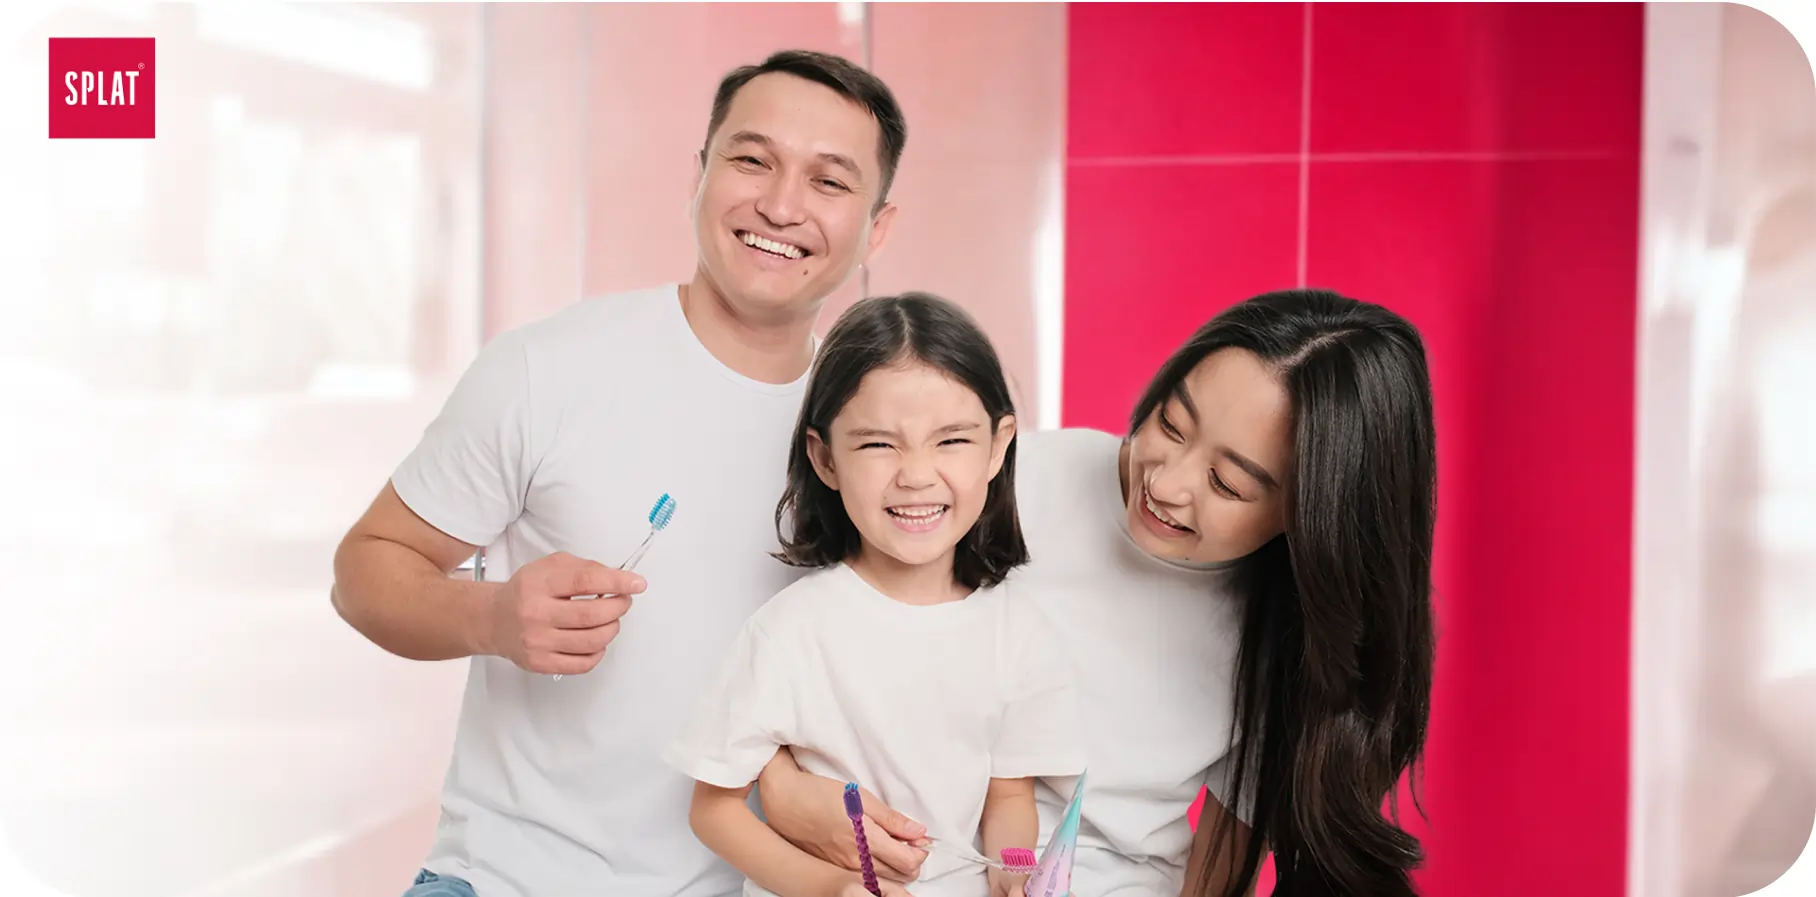
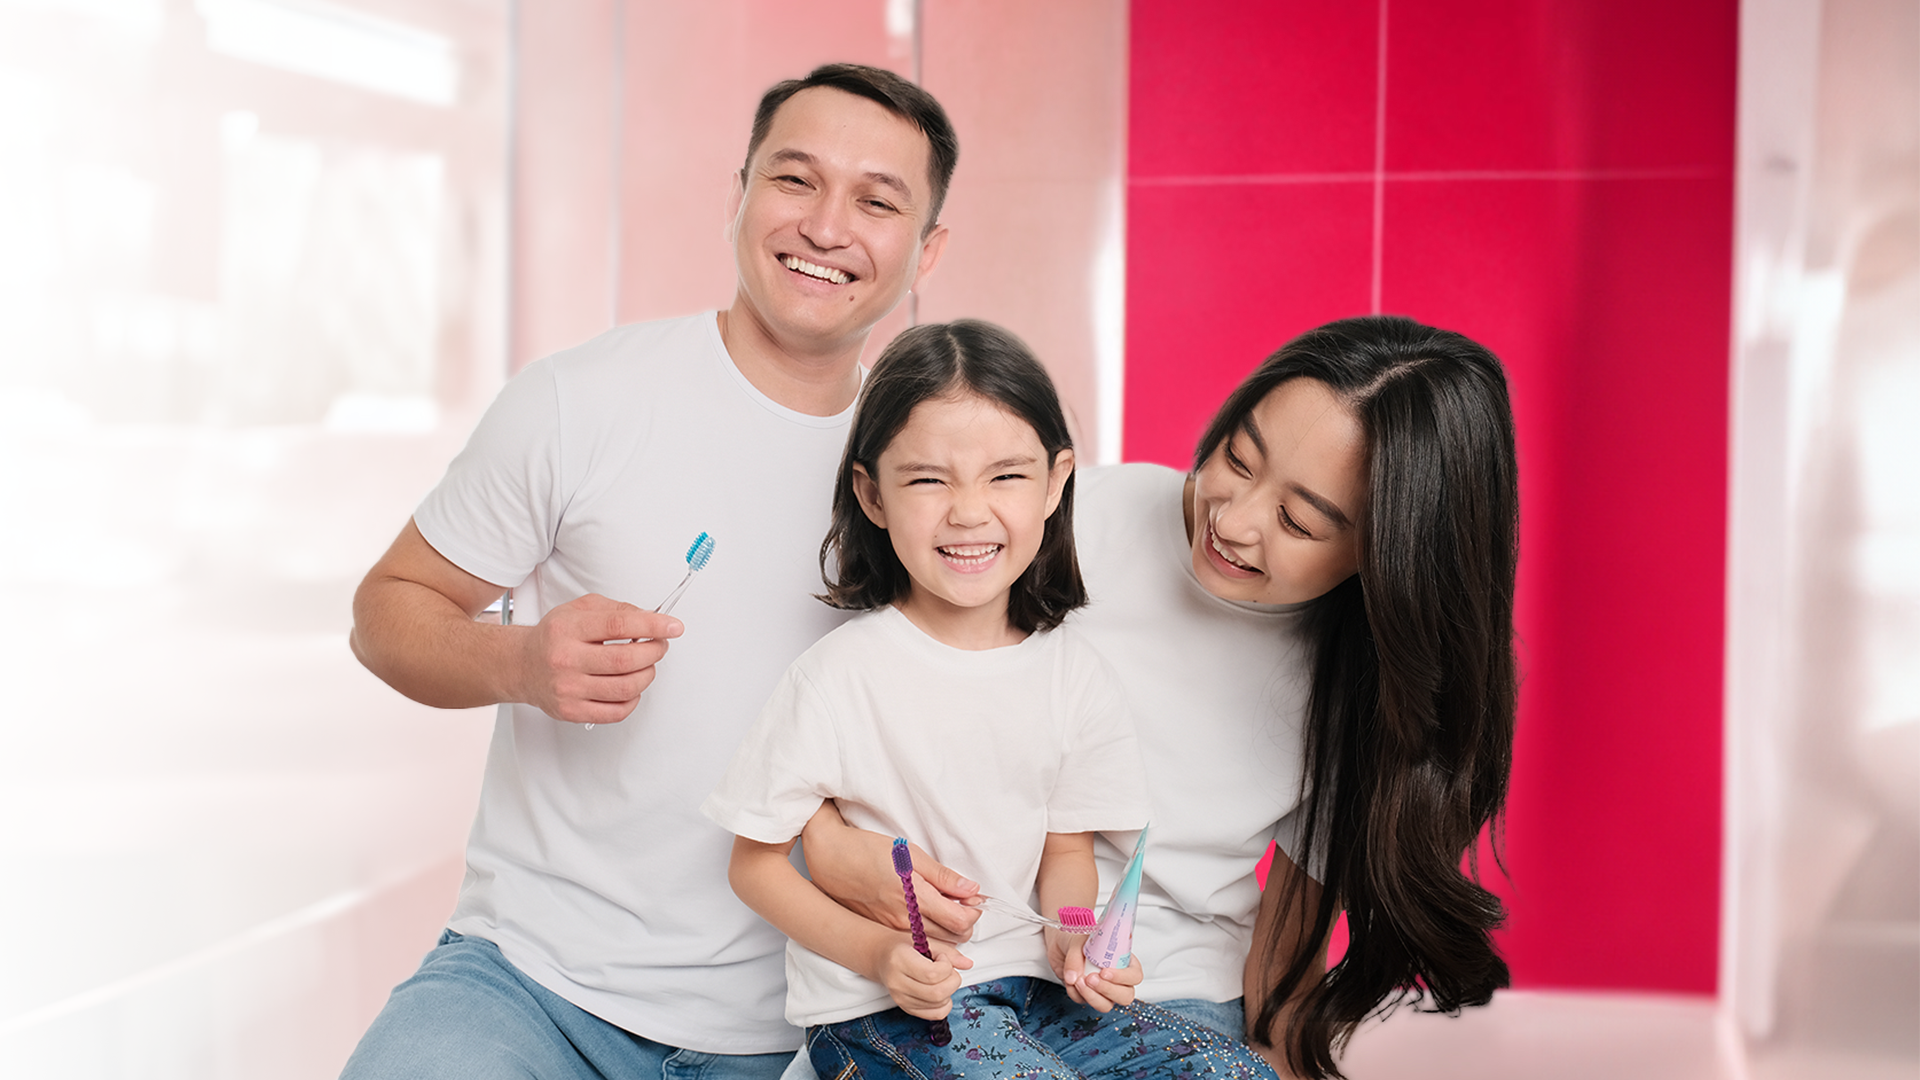
chore: update object position for service image in Services component

diff --git a/src/pages/home/ui/serviceAccordions/Services.tsx b/src/pages/home/ui/serviceAccordions/Services.tsx
@@ -50,7 +50,7 @@ export const Services = () => {
       ],
       imageSize: { width: "190px", height: "204px" },
       layout: "default",
-      objectPosition: "right",
+      objectPosition: "center",
     },
     {
       title: t("services.it.title"),
